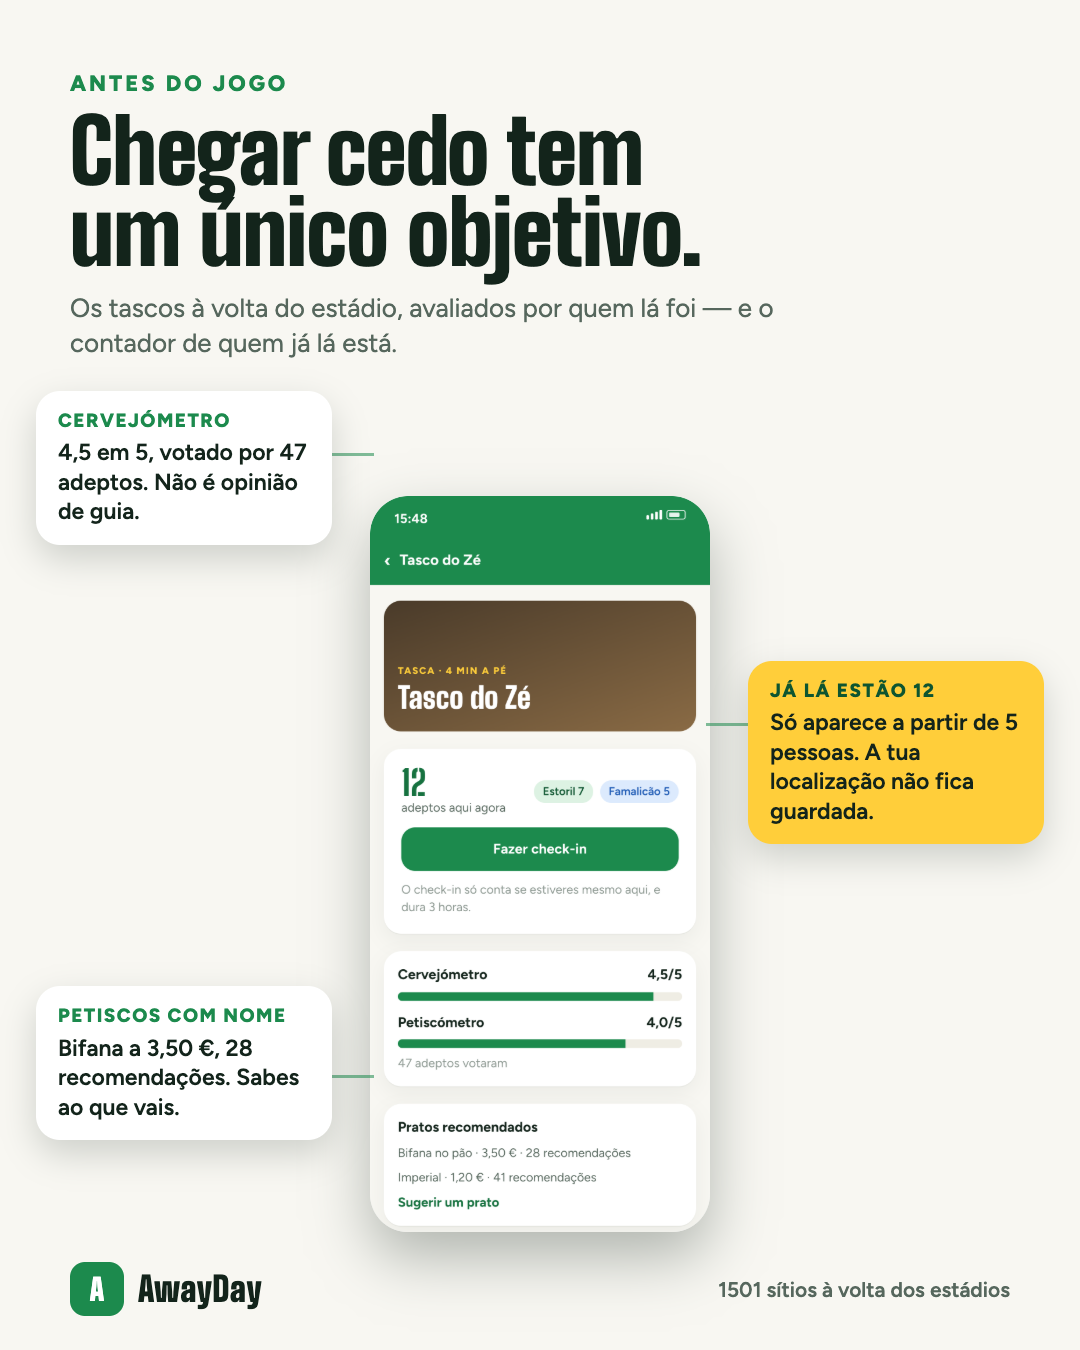
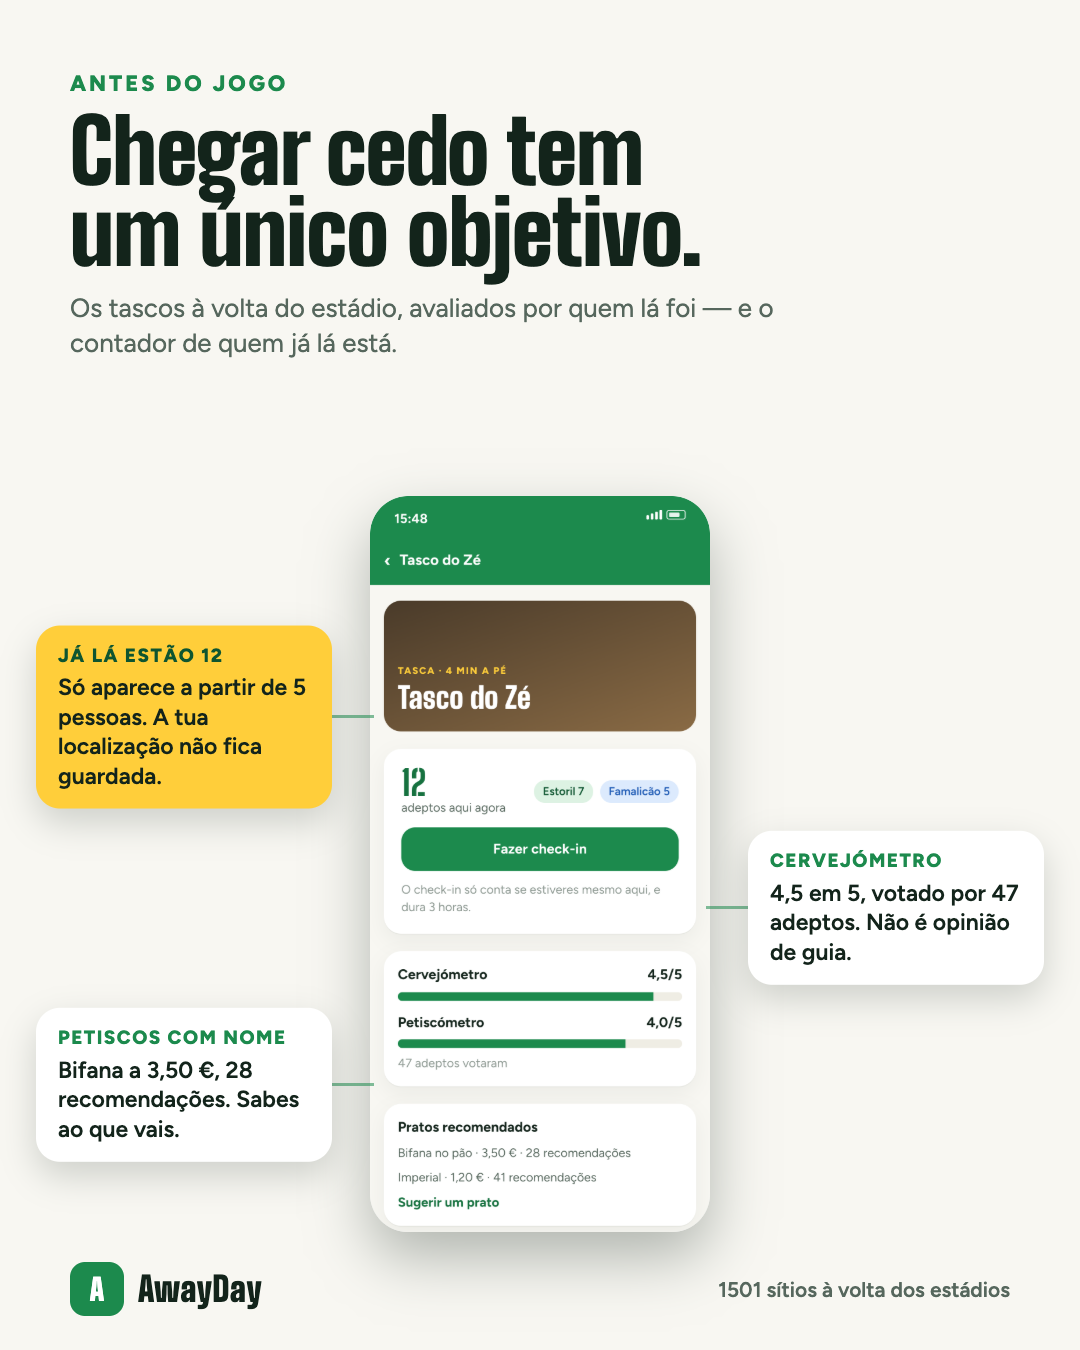
Os balões dos posts apontam para o sítio certo
Estavam todos um pouco acima do que descreviam. Cada balão passa a ser
preso a uma altura medida no ecrã (--y, a contar do fundo) e centrado
nela, com o traço à mesma altura — o balão do preço aponta para o preço,
o do «já pago» para o «já pago».

diff --git a/docs/promo/posts.html b/docs/promo/posts.html
@@ -84,6 +84,8 @@
 
   .bola {
     position: absolute;
+    bottom: var(--y);
+    transform: translateY(50%);
     background: var(--branco);
     border-radius: 24px;
     padding: 18px 22px;
@@ -101,8 +103,10 @@
   .bola.escura b { color: var(--amarelo); }
 
   /* O traço que liga a bola ao telemóvel. */
-  .risco { position: absolute; height: 3px; background: currentColor; opacity: 0.55; z-index: 3; }
-  .risco.v { width: 3px; height: auto; }
+  /* O traço sai da bola à altura dela e vai até ao telemóvel: aponta para a coisa, não para o ar. */
+  .risco { position: absolute; height: 3px; background: currentColor; opacity: 0.55; z-index: 3; bottom: calc(var(--y) - 1px); width: 42px; }
+  .risco.esq { left: 332px; }
+  .risco.dir { right: 332px; }
   .post .risco { color: var(--relva); }
   .post.relva .risco { color: var(--amarelo); opacity: 0.8; }
 
@@ -138,28 +142,29 @@
     <h2>«Alguém vai de carro?»<br>Agora tem resposta.</h2>
     <div class="subcabeca">E o preço não sai do achómetro: sai do consumo, do combustível e das portagens do caminho.</div>
   </div>
-  <div class="palco">
-    <div class="bola" style="left: 36px; top: 30px;">
+    <div class="palco">
+    <div class="bola" style="right: 36px; --y: 677px;">
       <b>Custo a sério</b>
       6,10 € por pessoa. Baixa sozinho quando entra mais gente.
     </div>
-    <div class="risco" style="left: 332px; top: 92px; width: 42px;"></div>
+    <div class="risco dir" style="--y: 677px;"></div>
 
-    <div class="bola amarela" style="right: 36px; top: 300px;">
+    <div class="bola amarela" style="left: 36px; --y: 618px;">
       <b>Folha corrida</b>
-      12 boleias, 0 faltas. Sabes com quem entras no carro.
+      12 boleias, 0 faltas. E as de amigos aparecem primeiro.
     </div>
-    <div class="risco" style="right: 332px; top: 362px; width: 42px;"></div>
+    <div class="risco esq" style="--y: 618px;"></div>
 
-    <div class="bola" style="left: 36px; bottom: 210px;">
-      <b>Amigos primeiro</b>
-      O carro de quem já foi contigo aparece à frente.
+    <div class="bola" style="left: 36px; --y: 228px;">
+      <b>Tens carro?</b>
+      Publicas a tua boleia em dois toques.
     </div>
-    <div class="risco" style="left: 332px; bottom: 272px; width: 42px;"></div>
+    <div class="risco esq" style="--y: 228px;"></div>
+
 
     <img class="telemovel" src="ecras/05-quem-leva-quem-com-o-custo-dividido.png" alt="">
   </div>
-  <div class="pe">
+<div class="pe">
     <div class="marca"><div class="selo">A</div><div class="nome">AwayDay</div></div>
     <div class="nota">o dia inteiro, não só os 90 minutos</div>
   </div>
@@ -172,28 +177,29 @@
     <h2>«Depois acertamos.»<br>A frase mais cara<br>do futebol.</h2>
     <div class="subcabeca">Passados três dias ninguém sabe quem pagou o jantar. A app sabe.</div>
   </div>
-  <div class="palco">
-    <div class="bola" style="left: 36px; top: 30px;">
-      <b>Divide quem entra</b>
-      Nem todos beberam. Escolhes quem entra em cada despesa.
-    </div>
-    <div class="risco" style="left: 332px; top: 92px; width: 42px;"></div>
-
-    <div class="bola amarela" style="right: 36px; top: 300px;">
-      <b>Ao cêntimo</b>
-      10,01 € por três dá 3,34 € e dois de 3,33 €. E tem dono.
-    </div>
-    <div class="risco" style="right: 332px; top: 362px; width: 42px;"></div>
-
-    <div class="bola escura" style="left: 36px; bottom: 210px;">
+    <div class="palco">
+    <div class="bola" style="left: 36px; --y: 685px;">
       <b>Quem paga a quem</b>
       Duas transferências e está tudo fechado.
     </div>
-    <div class="risco" style="left: 332px; bottom: 272px; width: 42px;"></div>
+    <div class="risco esq" style="--y: 685px;"></div>
+
+    <div class="bola amarela" style="right: 36px; --y: 324px;">
+      <b>Já pago</b>
+      Quem paga diz que pagou. Quem recebe confirma.
+    </div>
+    <div class="risco dir" style="--y: 324px;"></div>
+
+    <div class="bola escura" style="left: 36px; --y: 228px;">
+      <b>Quem pôs o quê</b>
+      O que cada um meteu e o que lhe coube. Ao cêntimo.
+    </div>
+    <div class="risco esq" style="--y: 228px;"></div>
+
 
     <img class="telemovel" src="ecras/11-no-fim-ninguem-discute-contas.png" alt="">
   </div>
-  <div class="pe">
+<div class="pe">
     <div class="marca"><div class="selo">A</div><div class="nome">AwayDay</div></div>
     <div class="nota">a app não move dinheiro — só diz quem paga a quem</div>
   </div>
@@ -206,28 +212,29 @@
     <h2>Chegar cedo tem<br>um único objetivo.</h2>
     <div class="subcabeca">Os tascos à volta do estádio, avaliados por quem lá foi — e o contador de quem já lá está.</div>
   </div>
-  <div class="palco">
-    <div class="bola" style="left: 36px; top: 30px;">
-      <b>Cervejómetro</b>
-      4,5 em 5, votado por 47 adeptos. Não é opinião de guia.
-    </div>
-    <div class="risco" style="left: 332px; top: 92px; width: 42px;"></div>
-
-    <div class="bola amarela" style="right: 36px; top: 300px;">
+    <div class="palco">
+    <div class="bola amarela" style="left: 36px; --y: 633px;">
       <b>Já lá estão 12</b>
       Só aparece a partir de 5 pessoas. A tua localização não fica guardada.
     </div>
-    <div class="risco" style="right: 332px; top: 362px; width: 42px;"></div>
+    <div class="risco esq" style="--y: 633px;"></div>
 
-    <div class="bola" style="left: 36px; bottom: 210px;">
+    <div class="bola" style="right: 36px; --y: 442px;">
+      <b>Cervejómetro</b>
+      4,5 em 5, votado por 47 adeptos. Não é opinião de guia.
+    </div>
+    <div class="risco dir" style="--y: 442px;"></div>
+
+    <div class="bola" style="left: 36px; --y: 265px;">
       <b>Petiscos com nome</b>
       Bifana a 3,50 €, 28 recomendações. Sabes ao que vais.
     </div>
-    <div class="risco" style="left: 332px; bottom: 272px; width: 42px;"></div>
+    <div class="risco esq" style="--y: 265px;"></div>
+
 
     <img class="telemovel" src="ecras/08-onde-a-malta-se-junta-antes-do-jogo.png" alt="">
   </div>
-  <div class="pe">
+<div class="pe">
     <div class="marca"><div class="selo">A</div><div class="nome">AwayDay</div></div>
     <div class="nota">1501 sítios à volta dos estádios</div>
   </div>
@@ -240,28 +247,29 @@
     <h2>Dizes que já foste<br>a 30 estádios.<br>Prova.</h2>
     <div class="subcabeca">O carimbo só se dá lá dentro, no dia do jogo. É a app que confirma.</div>
   </div>
-  <div class="palco">
-    <div class="bola" style="left: 36px; top: 30px;">
-      <b>156 estádios</b>
-      Dos 57 nacionais ao Camp Nou, Wembley e San Siro.
-    </div>
-    <div class="risco" style="left: 332px; top: 92px; width: 42px;"></div>
-
-    <div class="bola amarela" style="right: 36px; top: 300px;">
+    <div class="palco">
+    <div class="bola" style="left: 36px; --y: 692px;">
       <b>Sem batota</b>
       Fora do estádio não carimba. No dia seguinte, também não.
     </div>
-    <div class="risco" style="right: 332px; top: 362px; width: 42px;"></div>
+    <div class="risco esq" style="--y: 692px;"></div>
 
-    <div class="bola escura" style="left: 36px; bottom: 210px;">
+    <div class="bola amarela" style="right: 36px; --y: 464px;">
+      <b>156 estádios</b>
+      Dos 57 nacionais ao Camp Nou, Wembley e San Siro.
+    </div>
+    <div class="risco dir" style="--y: 464px;"></div>
+
+    <div class="bola escura" style="left: 36px; --y: 250px;">
       <b>Ranking público</b>
       Quem tem mais estádios na perna aparece na lista.
     </div>
-    <div class="risco" style="left: 332px; bottom: 272px; width: 42px;"></div>
+    <div class="risco esq" style="--y: 250px;"></div>
+
 
     <img class="telemovel" src="ecras/12-carimbar-um-estadio-e-estar-la-dentro.png" alt="">
   </div>
-  <div class="pe">
+<div class="pe">
     <div class="marca"><div class="selo">A</div><div class="nome">AwayDay</div></div>
     <div class="nota">o passaporte de quem anda na estrada</div>
   </div>
@@ -274,28 +282,29 @@
     <h2>Sair «às três e tal»<br>é como não sair.</h2>
     <div class="subcabeca">A app diz-te a hora, conta com o trânsito do jogo e com o tempo de encontrar lugar.</div>
   </div>
-  <div class="palco">
-    <div class="bola amarela" style="left: 36px; top: 30px;">
+    <div class="palco">
+    <div class="bola amarela" style="left: 36px; --y: 707px;">
       <b>15:20</b>
       Estrada, estacionamento e a fila da entrada, já contados.
     </div>
-    <div class="risco" style="left: 332px; top: 92px; width: 42px;"></div>
+    <div class="risco esq" style="--y: 707px;"></div>
 
-    <div class="bola" style="right: 36px; top: 300px;">
+    <div class="bola" style="right: 36px; --y: 471px;">
       <b>Parques por cor</b>
-      Verde costuma ter lugar. Vermelho, se chegares tarde, esquece.
+      Verde costuma ter lugar. Vermelho é dar voltas ao quarteirão.
     </div>
-    <div class="risco" style="right: 332px; top: 362px; width: 42px;"></div>
+    <div class="risco dir" style="--y: 471px;"></div>
 
-    <div class="bola" style="left: 36px; bottom: 210px;">
-      <b>A pé do carro</b>
-      4, 9 ou 14 minutos até à bancada. Escolhes tu.
+    <div class="bola" style="left: 36px; --y: 250px;">
+      <b>Avisa a horas</b>
+      Depois das 16:15, à volta do estádio, esquece.
     </div>
-    <div class="risco" style="left: 332px; bottom: 272px; width: 42px;"></div>
+    <div class="risco esq" style="--y: 250px;"></div>
+
 
     <img class="telemovel" src="ecras/03-a-que-horas-sair-e-onde-deixar-o-carro.png" alt="">
   </div>
-  <div class="pe">
+<div class="pe">
     <div class="marca"><div class="selo">A</div><div class="nome">AwayDay</div></div>
     <div class="nota">chega a horas, sem dar voltas ao quarteirão</div>
   </div>
@@ -308,28 +317,29 @@
     <h2>Um grupo de<br>WhatsApp a menos.</h2>
     <div class="subcabeca">A conversa é do carro: condutor e quem já tem lugar. Acaba um dia depois do jogo e não volta a tocar.</div>
   </div>
-  <div class="palco">
-    <div class="bola" style="left: 36px; top: 30px;">
+    <div class="palco">
+    <div class="bola" style="left: 36px; --y: 633px;">
       <b>Só quem vai</b>
       Quem ainda não foi aceite não escreve. O carro não é um grupo aberto.
     </div>
-    <div class="risco" style="left: 332px; top: 92px; width: 42px;"></div>
+    <div class="risco esq" style="--y: 633px;"></div>
 
-    <div class="bola amarela" style="right: 36px; top: 300px;">
+    <div class="bola amarela" style="right: 36px; --y: 471px;">
       <b>Combina-se ali</b>
       A hora certa, o sítio, quem leva os cafés.
     </div>
-    <div class="risco" style="right: 332px; top: 362px; width: 42px;"></div>
+    <div class="risco dir" style="--y: 471px;"></div>
 
-    <div class="bola" style="left: 36px; bottom: 210px;">
+    <div class="bola" style="left: 36px; --y: 265px;">
       <b>E cala-se sozinha</b>
       Um dia depois do jogo fecha. Fica lá para consulta.
     </div>
-    <div class="risco" style="left: 332px; bottom: 272px; width: 42px;"></div>
+    <div class="risco esq" style="--y: 265px;"></div>
+
 
     <img class="telemovel" src="ecras/07-a-conversa-do-carro.png" alt="">
   </div>
-  <div class="pe">
+<div class="pe">
     <div class="marca"><div class="selo">A</div><div class="nome">AwayDay</div></div>
     <div class="nota">o que se combina, combina-se uma vez</div>
   </div>
@@ -342,28 +352,29 @@
     <h2>O jogo acabou.<br>E agora, quem<br>é que te leva?</h2>
     <div class="subcabeca">Com o apito, as boleias mudam de cara: mostram quem volta e para onde.</div>
   </div>
-  <div class="palco">
-    <div class="bola" style="left: 36px; top: 30px;">
-      <b>Por destino</b>
-      «Para Viseu», «para Mangualde». Não é uma lista de nomes soltos.
-    </div>
-    <div class="risco" style="left: 332px; top: 92px; width: 42px;"></div>
-
-    <div class="bola amarela" style="right: 36px; top: 300px;">
-      <b>Sobra um lugar?</b>
-      Abre-o a meio do jogo. Alguém lá fora agradece.
-    </div>
-    <div class="risco" style="right: 332px; top: 362px; width: 42px;"></div>
-
-    <div class="bola escura" style="left: 36px; bottom: 210px;">
+    <div class="palco">
+    <div class="bola" style="left: 36px; --y: 677px;">
       <b>Sem ficar a pé</b>
       Pedes lugar na volta e o condutor responde no telemóvel.
     </div>
-    <div class="risco" style="left: 332px; bottom: 272px; width: 42px;"></div>
+    <div class="risco esq" style="--y: 677px;"></div>
+
+    <div class="bola amarela" style="right: 36px; --y: 515px;">
+      <b>Por destino</b>
+      «Para Viseu», «para Mangualde». Não é uma lista de nomes soltos.
+    </div>
+    <div class="risco dir" style="--y: 515px;"></div>
+
+    <div class="bola escura" style="left: 36px; --y: 221px;">
+      <b>Sobra um lugar?</b>
+      Abre-o a meio do jogo. Alguém lá fora agradece.
+    </div>
+    <div class="risco esq" style="--y: 221px;"></div>
+
 
     <img class="telemovel" src="ecras/18-depois-do-apito-quem-volta-para-onde.png" alt="">
   </div>
-  <div class="pe">
+<div class="pe">
     <div class="marca"><div class="selo">A</div><div class="nome">AwayDay</div></div>
     <div class="nota">ninguém fica no parque à espera de um milagre</div>
   </div>
@@ -376,28 +387,29 @@
     <h2>O jogo dura<br>90 minutos.<br>O dia, não.</h2>
     <div class="subcabeca">Missões para cumprir na viagem, e um álbum que no fim da época conta a história toda.</div>
   </div>
-  <div class="palco">
-    <div class="bola amarela" style="left: 36px; top: 30px;">
+    <div class="palco">
+    <div class="bola amarela" style="left: 36px; --y: 604px;">
       <b>Petisco da terra</b>
-      Provar o prato da cidade do jogo. É trabalho, mas alguém tem de o fazer.
+      Provar o prato da cidade do jogo. Alguém tem de o fazer.
     </div>
-    <div class="risco" style="left: 332px; top: 92px; width: 42px;"></div>
+    <div class="risco esq" style="--y: 604px;"></div>
 
-    <div class="bola" style="right: 36px; top: 300px;">
+    <div class="bola" style="right: 36px; --y: 457px;">
       <b>Copo com o rival</b>
       Uma foto com um adepto da outra equipa. Sem sangue.
     </div>
-    <div class="risco" style="right: 332px; top: 362px; width: 42px;"></div>
+    <div class="risco dir" style="--y: 457px;"></div>
 
-    <div class="bola" style="left: 36px; bottom: 210px;">
+    <div class="bola" style="left: 36px; --y: 236px;">
       <b>Álbum da época</b>
       As fotos ficam. A memória, essa, é que se vai.
     </div>
-    <div class="risco" style="left: 332px; bottom: 272px; width: 42px;"></div>
+    <div class="risco esq" style="--y: 236px;"></div>
+
 
     <img class="telemovel" src="ecras/13-o-que-ha-para-fazer-alem-dos-90-minutos.png" alt="">
   </div>
-  <div class="pe">
+<div class="pe">
     <div class="marca"><div class="selo">A</div><div class="nome">AwayDay</div></div>
     <div class="nota">12 missões por época</div>
   </div>
